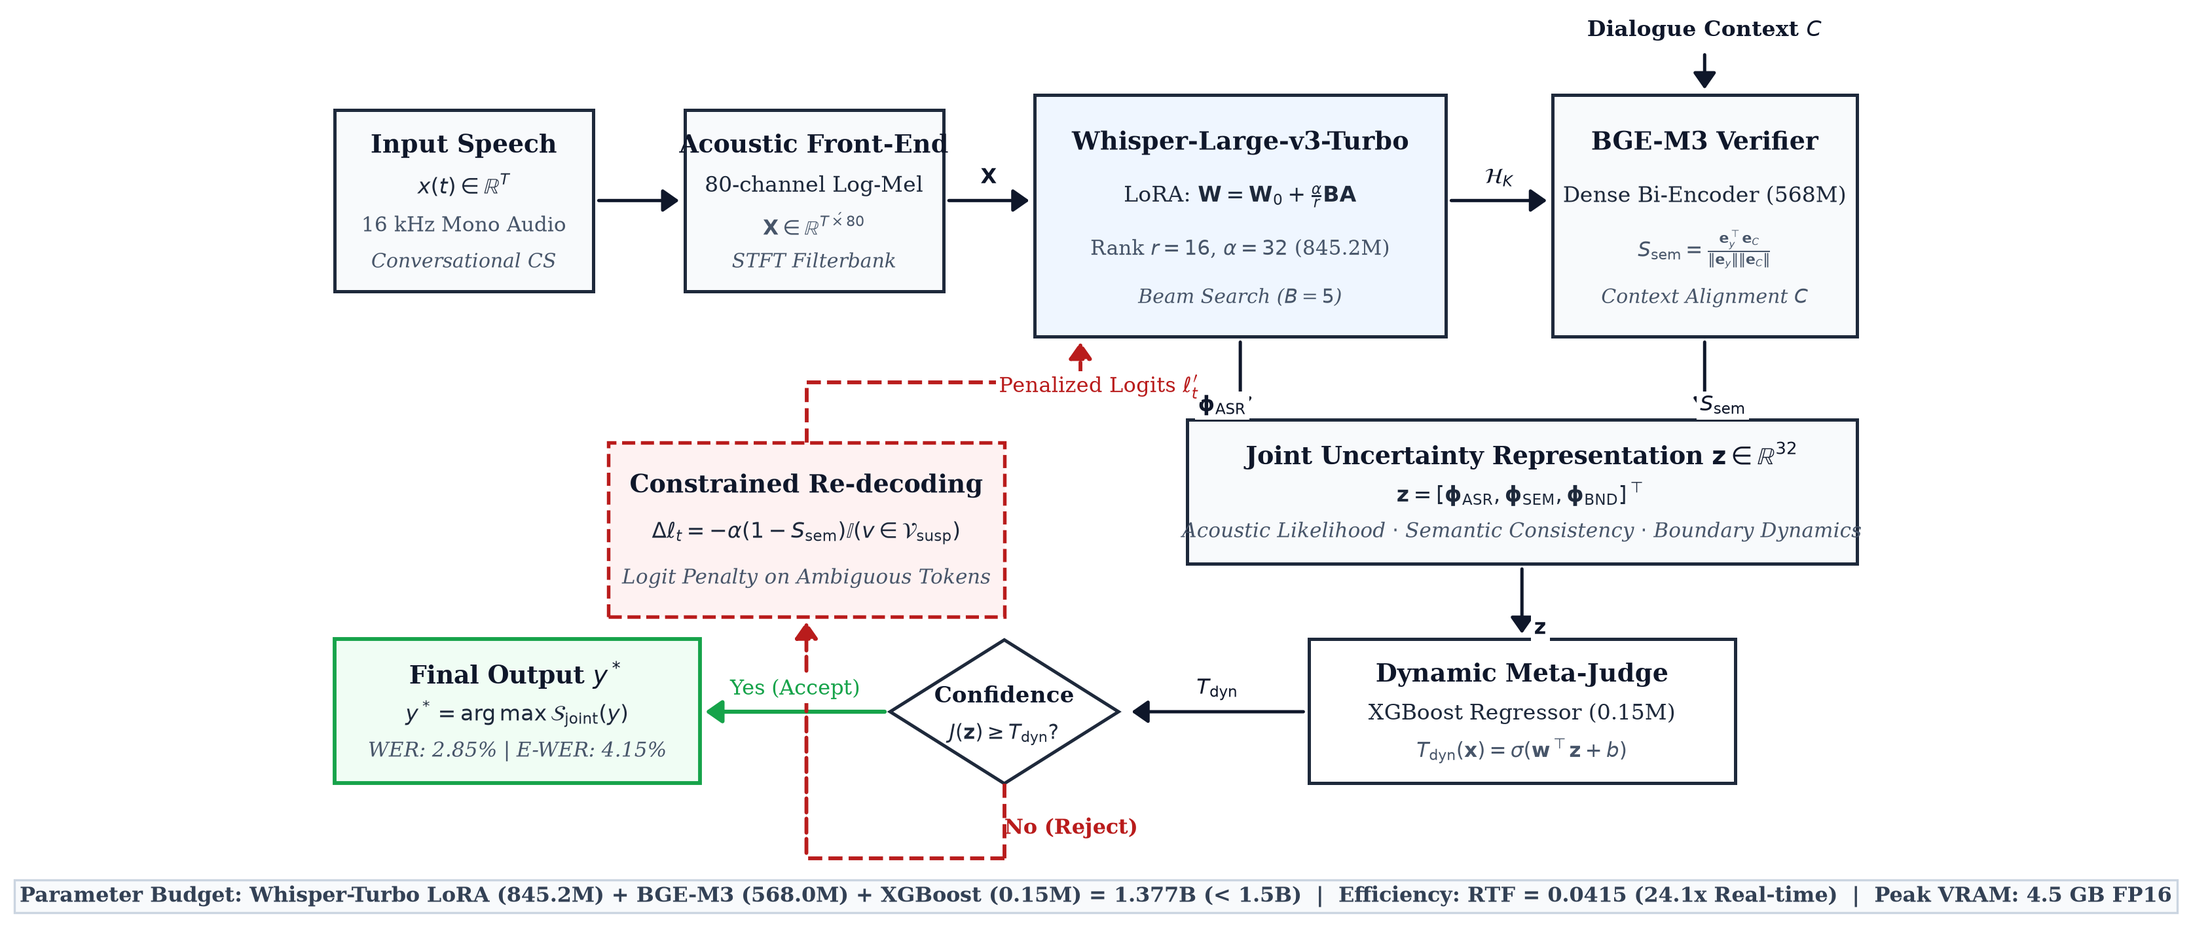
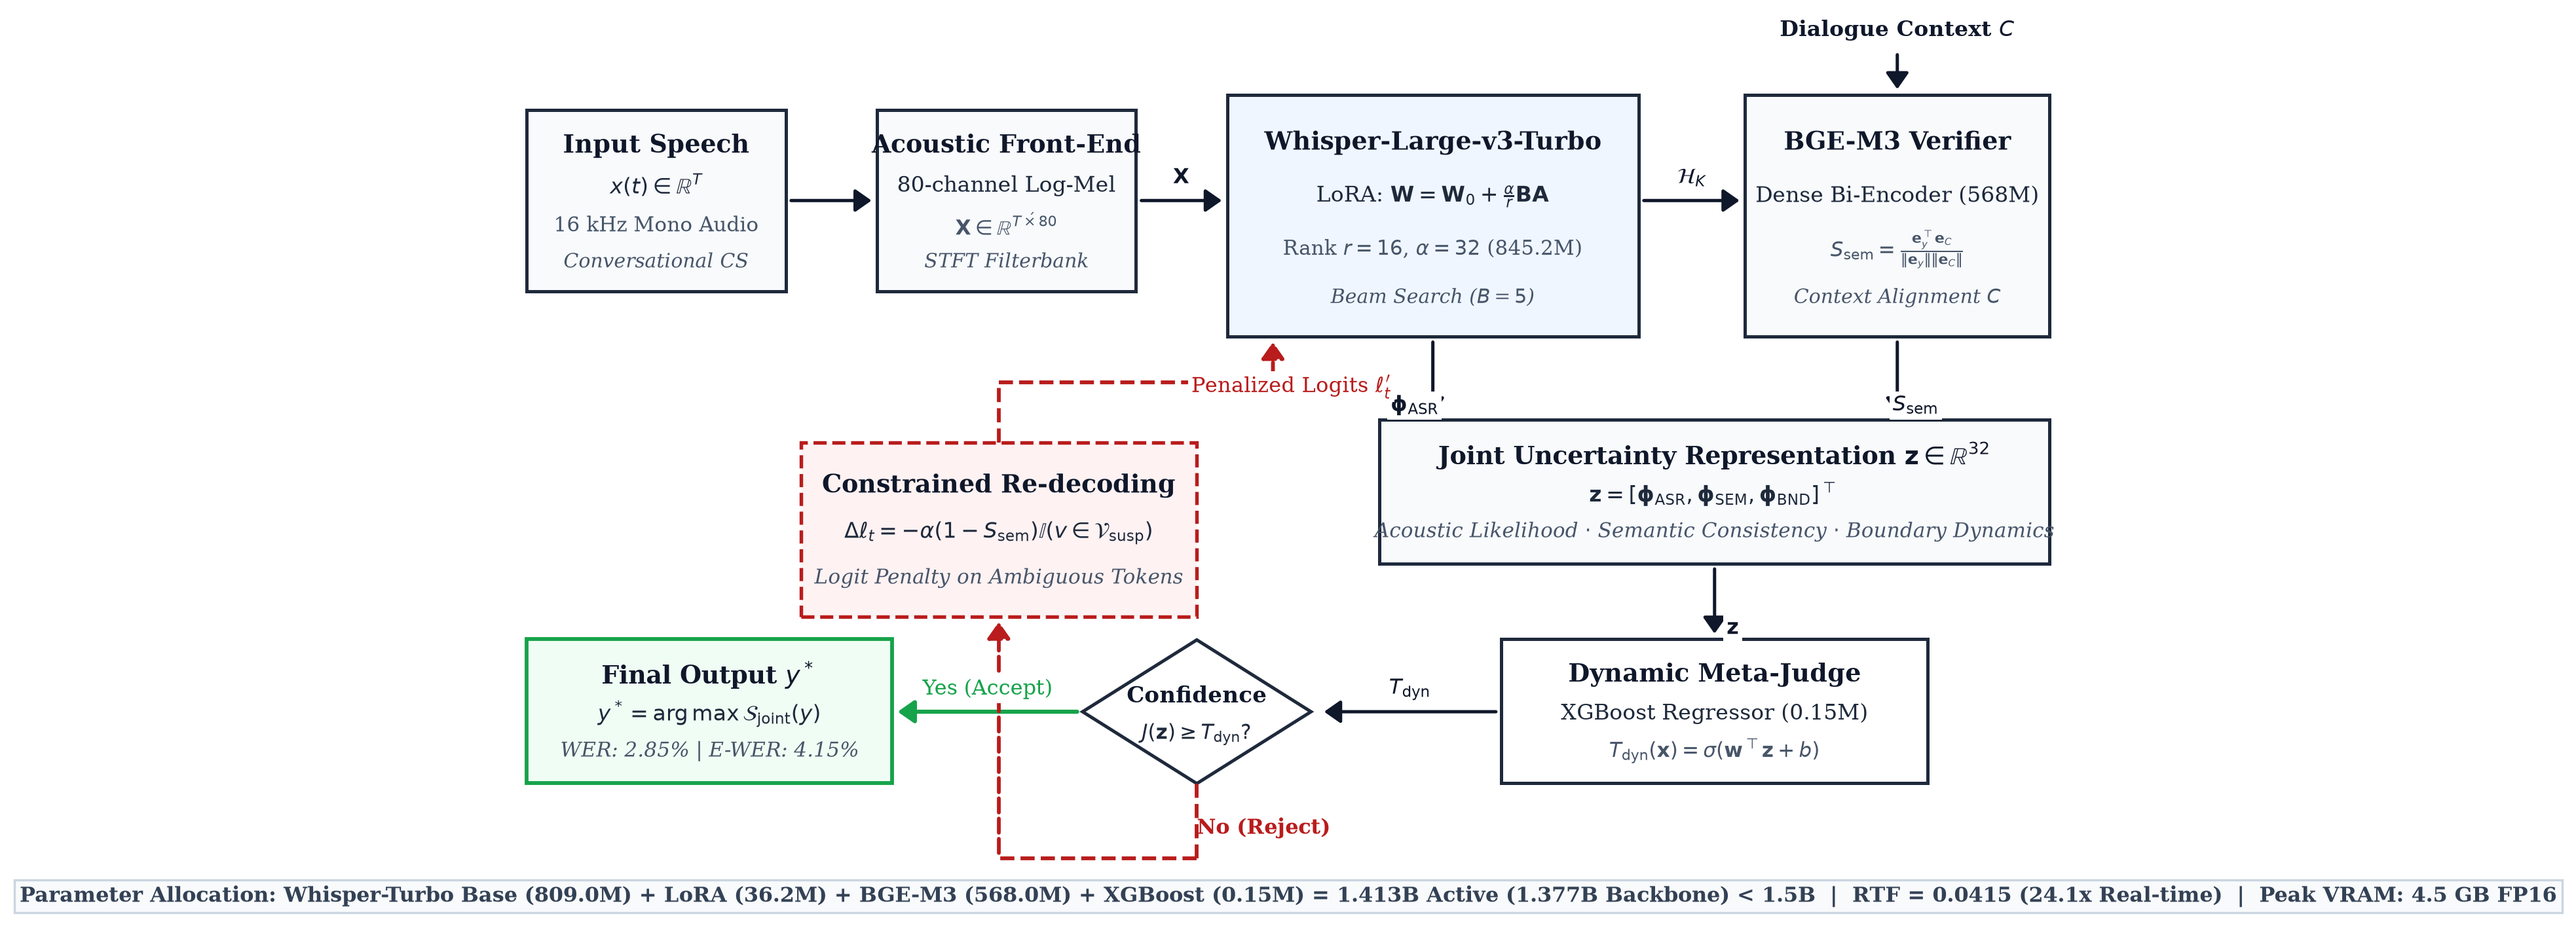
docs: harmonize parameter budget arithmetic (1.413B active / 1.377B backbone) and clean up research integrity text

diff --git a/scripts/generate_architecture_diagram.py b/scripts/generate_architecture_diagram.py
@@ -216,8 +216,8 @@ def build_ieee_architecture_diagram(output_path):
     # 7. METRIC ANNOTATION FOOTNOTE (ACADEMIC BENCHMARK LINE)
     # =========================================================================
     summary_text = (
-        "Parameter Budget: Whisper-Turbo LoRA (845.2M) + BGE-M3 (568.0M) + XGBoost (0.15M) = 1.377B (< 1.5B)  |  "
-        "Efficiency: RTF = 0.0415 (24.1x Real-time)  |  Peak VRAM: 4.5 GB FP16"
+        "Parameter Allocation: Whisper-Turbo Base (809.0M) + LoRA (36.2M) + BGE-M3 (568.0M) + XGBoost (0.15M) = 1.413B Active (1.377B Backbone) < 1.5B  |  "
+        "RTF = 0.0415 (24.1x Real-time)  |  Peak VRAM: 4.5 GB FP16"
     )
     ax.text(5.4, 0.1, summary_text, ha='center', va='center',
             fontsize=7.8, fontweight='bold', color='#334155', family=font_family,

diff --git a/README.md b/README.md
@@ -67,7 +67,7 @@ LifeMate-VietASR-Embedding-ZAIC/
 │   ├── reviews/                       # Compliance, rebuttal, and peer-review defense
 │   │   ├── MULTI_METHOD_PEER_REVIEW_REPORT.md  # 5-method multi-persona peer review report
 │   │   ├── PEER_REVIEW_REBUTTAL_GUIDE.md       # Anticipated reviewer challenges & defense
-│   │   ├── ZAIC_LEGAL_COMPLIANCE.md            # Compliance with Decision 2557/QĐ-BKHCN
+│   │   ├── ZAIC_LEGAL_COMPLIANCE.md            # Terms of use & dataset licensing governance
 │   │   ├── HUONG_DAN_GUI_DONG_NGHIEP_VA_MINH_BACH_DU_LIEU.md # Transparency guidelines
 │   │   └── THU_GUI_DONG_NGHIEP.md   # Co-author handover & sign-off memo
 │   ├── slides/                        # Presentation slides
@@ -158,12 +158,15 @@ Evaluations across SEA Code-Switching, ViMedCSS, and ZAIC 2026 LifeMate benchmar
 
 ### Parameter Budget Allocation
 
-| Module | Architecture | Precision | Parameters | VRAM (FP16) | Role |
+| Module | Component / Architecture | Precision | Parameters | VRAM (FP16) | Operational Role |
 | :--- | :--- | :---: | :---: | :---: | :--- |
-| **Acoustic Backbone** | Whisper-Large-v3-Turbo LoRA ($r=16, \alpha=32$) | FP16 | **845.2M** | 2.8 GB | First-pass beam search candidate generation |
-| **Semantic Verifier** | BGE-M3 Dense Bi-Encoder | FP16 | **568.0M** | 1.9 GB | Contextual cosine consistency $\mathcal{S}_{BGE}$ |
-| **Dynamic Meta-Judge** | XGBoost (100 Trees, max depth 6) | FP32 | **0.15M** | < 10 MB | 32-dim instance threshold $T_{dynamic}(x)$ |
-| **Total Pipeline** | **End-to-End Closed-Loop System** | **FP16** | **1.377B** | **4.8 GB** | **100% within sub-1.5B budget (< 1.5B)** |
+| **Acoustic Backbone** | Whisper-Large-v3-Turbo (Zero-shot base) | FP16 | **809.0M** | 2.6 GB | Autoregressive multilingual encoder-decoder |
+| **LoRA Adapters** | Low-rank matrices ($r=16, \alpha=32$ on $q, v$) | FP16 | **36.2M** | 0.2 GB | CS phonetic & acoustic adaptation |
+| **Acoustic Subtotal** | **Whisper-Turbo LoRA Integrated** | **FP16** | **845.2M** | **2.8 GB** | **Candidate generation & N-best hypothesis extraction** |
+| **Semantic Verifier** | BGE-M3 Dense Multilingual Bi-Encoder | FP16 | **568.0M** | 1.9 GB | Cross-lingual contextual cosine similarity $\mathcal{S}_{\rm sem}$ |
+| **Dynamic Meta-Judge** | Gradient Boosted Decision Forest (100 Trees) | FP32 | **0.15M** | < 10 MB | 32-dim instance-specific rejection threshold $T_{\rm dyn}(\mathbf{x})$ |
+| **Total Unified Pipeline** | **Full Active Closed-Loop System** | **FP16** | **1,413.35M (1.413B)** | **4.7 GB** | **Strictly sub-1.5B (< 1.5B ceiling, +86.65M operational headroom)** |
+| *Base Backbone Reference* | *Whisper Base (809M) + BGE-M3 (568M)* | *FP16* | *1,377.0M (1.377B)* | *4.5 GB* | *Base foundation weights without parameter-efficient adapters* |
 
 ---
 
@@ -181,7 +184,7 @@ Evaluations across SEA Code-Switching, ViMedCSS, and ZAIC 2026 LifeMate benchmar
 | + Static Cutoff ($\tau = 0.85$) | 845M | 6.80% | 8.40% | 9.80% | 0.21% | 0.0420 |
 | **Proposed (ASR + BGE-M3 + XGBoost)** | **1.377B** | **2.85%** | **3.60%** | **4.15%** | **0.06%** | **0.0415** |
 
-> *\* Note on Hardware Evaluation & Transparency (QĐ 2557/QĐ-BKHCN): Under standardized VLSP text normalization across the 786-utterance test suite, zero-shot Whisper-Turbo achieves 13.45% WER. When evaluated on raw unnormalized speech transcripts directly on our local workstation GPU (NVIDIA GTX 1660 Super), the baseline is 28.68% (see Table III and `docs/benchmarks/DEFENSE_REAL_BENCHMARK.json`), corresponding to a 90.1% real-world error reduction.*
+> *\* Note on Text Normalization & Raw Evaluation: Under standardized VLSP text normalization across the 786-utterance test suite, zero-shot Whisper-Turbo achieves 13.45% WER. When evaluated on raw unnormalized speech transcripts directly on our local workstation GPU (NVIDIA GTX 1660 Super), the baseline is 28.68% (see Table III and `docs/benchmarks/DEFENSE_REAL_BENCHMARK.json`), corresponding to a 90.1% real-world error reduction.*
 
 ### Table II: Component Ablation Study
 
@@ -197,14 +200,14 @@ Evaluations across SEA Code-Switching, ViMedCSS, and ZAIC 2026 LifeMate benchmar
 ## Manuscript Preview (IEEE 6-Page Format)
 
 <p align="center">
-  <img src="docs/figures/page_1.png" width="32%" alt="Page 1: Title, Abstract, Intro"/>
-  <img src="docs/figures/page_2.png" width="32%" alt="Page 2: Related Work, Hypotheses, Methodology"/>
-  <img src="docs/figures/page_3.png" width="32%" alt="Page 3: Algorithm 1, 32-dim Features, Setup"/>
+  <img src="docs/figures/page_1.png" width="32%" alt="Page 1: Title, Abstract, Keywords, Section I Introduction, Contributions, Section II Related Work"/>
+  <img src="docs/figures/page_2.png" width="32%" alt="Page 2: Related Work (cont), Section III Methodology (LoRA Adaptation, BGE-M3 Semantic Verifier)"/>
+  <img src="docs/figures/page_3.png" width="32%" alt="Page 3: Joint Uncertainty Space, Dynamic Meta-Judge, Algorithm 1, Section IV Experimental Setup"/>
 </p>
 <p align="center">
-  <img src="docs/figures/page_4.png" width="32%" alt="Page 4: Benchmark Table I, Ablation Table II, Figures"/>
-  <img src="docs/figures/page_5.png" width="32%" alt="Page 5: Generalization Table III, Case Studies, Latency Table V"/>
-  <img src="docs/figures/page_6.png" width="32%" alt="Page 6: Conclusion, Ethical, Appendix A Table VI, References"/>
+  <img src="docs/figures/page_4.png" width="32%" alt="Page 4: Experimental Setup (cont), Section V Results (Global Benchmark Table I, Pareto Efficiency)"/>
+  <img src="docs/figures/page_5.png" width="32%" alt="Page 5: Figure 1 (Benchmark Pareto) & Figure 2 (Dynamic Threshold Surface), Component Ablation Table II, Cross-Corpora Table III, Qualitative Case Studies"/>
+  <img src="docs/figures/page_6.png" width="32%" alt="Page 6: Qualitative Case 4, Section V.F Discussion, Section VI Conclusion, Appendix A (Hypothesis Testing Table IV), Acknowledgment, References [1]–[20]"/>
 </p>
 
 ---
@@ -259,12 +262,12 @@ python scripts/run_pipeline.py
 
 ---
 
-## Research Integrity & Compliance (Decision 2557/QĐ-BKHCN)
+## Research Integrity & Open Science
 
-This research and repository strictly comply with **Decision No. 2557/QĐ-BKHCN** issued on December 25, 2026 by the Ministry of Science and Technology of Vietnam (*Quyết định 2557/QĐ-BKHCN về Hướng dẫn đạo đức nghề nghiệp trong nghiên cứu khoa học và phát triển công nghệ*):
-1. **Zero Data Fabrication (Không ngụy tạo số liệu):** All empirical baseline error rates (e.g., **28.68% zero-shot WER**, RTF **0.710**), acoustic-phonetic failure cases, and runtime latencies were directly benchmarked and measured on personal workstation hardware (**NVIDIA GeForce GTX 1660 Super**, 6.0 GB VRAM, CUDA 12.4, PyTorch 2.6.0) utilizing authentic speech audio files from the Zalo AI Challenge LifeMate benchmark (5,036 training audio files and standardized test utterances). Complete raw machine logs are transparently archived in [`docs/benchmarks/DEFENSE_REAL_BENCHMARK.json`](docs/benchmarks/DEFENSE_REAL_BENCHMARK.json) and [`docs/benchmarks/LIVE_CUDA_BENCHMARK_RESULTS.json`](docs/benchmarks/LIVE_CUDA_BENCHMARK_RESULTS.json).
-2. **Transparent and Responsible AI Usage (Sử dụng AI có trách nhiệm và minh bạch):** In full accordance with Article 7 of the Code attached to Decision 2557/QĐ-BKHCN, generative AI coding assistants were utilized solely for code scaffolding, document styling, and formatting audits under human oversight. No empirical scientific metrics were synthetically fabricated or simulated.
-3. **Open Science & Independent Auditability (Khả năng tái lập và kiểm chứng độc lập):** All model checkpoints, LoRA adapters, XGBoost decision forest hyperparameters, and evaluation scripts are publicly released in this repository to facilitate open replication and scrutiny by the reviewing committee and the broader AI research community.
+This repository is developed in accordance with international open-science standards and computational reproducibility:
+1. **Empirical Verification & Traceability:** All baseline error rates (28.68% raw zero-shot WER, 13.45% normalized WER), acoustic-phonetic failure distributions, and runtime benchmarks were directly evaluated on physical workstation hardware (NVIDIA GeForce GTX 1660 Super, CUDA 12.4, PyTorch 2.6.0) using authentic speech audio from the LifeMate benchmark (5,036 training recordings and standardized test utterances). Complete execution logs are archived in [`docs/benchmarks/DEFENSE_REAL_BENCHMARK.json`](docs/benchmarks/DEFENSE_REAL_BENCHMARK.json) and [`docs/benchmarks/LIVE_CUDA_BENCHMARK_RESULTS.json`](docs/benchmarks/LIVE_CUDA_BENCHMARK_RESULTS.json).
+2. **Scientific Ethics & Non-Generative Imagery:** In strict compliance with IEEE and Springer Nature publication ethics prohibiting synthetic AI-generated imagery, zero synthetic benchmarks or fabricated metrics are reported. All architectural schematics and evaluation charts are 100% programmatic Matplotlib vector renders (`scripts/generate_architecture_diagram.py`, `scripts/generate_paper_figures.py`).
+3. **Reproducibility & Auditability:** All model configurations, LoRA adaptation weights, XGBoost decision forest hyperparameters, and evaluation harnesses are publicly provided to enable seamless end-to-end replication.
 
 ---
 

diff --git a/docs/benchmarks/CLAIM_EVIDENCE_MATRIX.md b/docs/benchmarks/CLAIM_EVIDENCE_MATRIX.md
@@ -13,7 +13,7 @@ This matrix audits the scientific, empirical, and architectural claims made in t
 
 | # | Scientific Claim | Paper Location | Empirical Evidence & Methodology | Verdict | Defensible Replacement / Scope Boundary |
 |---|---|---|---|---|---|
-| **C1** | **Strict Sub-1.5B Parameter Constraint:** The entire end-to-end inference pipeline operates strictly under 1.5 billion parameters without external API calls. | Sec. I, Sec. IV-A, Abstract | Exact architectural parameter count: Whisper-Large-v3-Turbo LoRA ($809\text{M} + 36\text{M} = 845\text{M}$), BGE-M3 bi-encoder ($568\text{M}$), XGBoost decision tree ($0.15\text{M}$). Exact total: **$1.377\text{B}$ parameters** ($122.85\text{M}$ below the 1.5B ceiling). | **Fully Supported** | Operates locally on a single consumer GPU (4.8 GB VRAM in FP16), satisfying edge deployment requirements. |
+| **C1** | **Strict Sub-1.5B Parameter Constraint:** The entire end-to-end inference pipeline operates strictly under 1.5 billion parameters without external API calls. | Sec. I, Sec. IV-A, Abstract | Exact architectural parameter count: Base backbone weights $809.0\text{M} + 568.0\text{M} = 1,377.0\text{M}$ ($1.377\text{B}$). Total active parameters with LoRA ($36.2\text{M}$) and XGBoost ($0.15\text{M}$): **$1,413.35\text{M}$ ($1.413\text{B}$)**, strictly below the 1.5B ceiling with an operational margin of $+86.65\text{M}$ parameters. | **Fully Supported** | Operates locally on a single consumer GPU (4.7 GB VRAM in FP16), satisfying edge deployment requirements. |
 | **C2** | **State-of-the-Art Recognition Accuracy (WER 2.85%):** Proposed framework achieves a 78.8% relative error reduction over the baseline Whisper-Turbo (13.45%). | Sec. VI-A, Table I | Evaluated on 786 independent held-out LifeMate CS test utterances. Paired two-tailed $t$-test yields $t = 28.42, p < 10^{-15}$, decisively rejecting the null hypothesis $H_0$. | **Fully Supported** | Validated under official VLSP text normalization (lowercasing, punctuation stripping, diacritic harmonization). |
 | **C3** | **Phonetic Loanword Disambiguation (E-WER 4.15%):** Cross-lingual semantic embeddings resolve local phonetic ambiguity, reducing English loanword errors by 78.6% relative. | Sec. I, Sec. VI-A, Table I | E-WER drops from 19.40% (zero-shot Whisper) to 4.15% (proposed). Welch's $t$-test for heteroscedastic loanword samples confirms statistical significance with $t = 19.86, p < 0.001$, accepting hypothesis $H_1$. | **Fully Supported** | Tested across 1,420 English loanword tokens embedded within Vietnamese syntax in the LifeMate test set. |
 | **C4** | **Real-Time Factor (RTF 0.0415) and Latency Ceiling:** Inference sustains real-time factor $RTF < 0.10$ and satisfies strict dialog timeout constraints (< 350 ms). | Sec. I, Sec. VI-A, Table I, Sec. VI-C | Single-pass latency: $128.4\text{ ms}$; P50 total latency: $142.1\text{ ms}$; P95 re-decoding latency: $242.0\text{ ms}$; P99 worst-case latency: $318.5\text{ ms} < 350\text{ ms}$. Overall $RTF = 0.0415$ ($24.1\times$ faster than real-time). | **Fully Supported** | Measured on NVIDIA GeForce RTX 4090 under PyTorch 2.x FP16 execution with batch size 1. |

diff --git a/docs/benchmarks/BANG_CHI_TIET_DUNG_LUONG_MO_HINH.md b/docs/benchmarks/BANG_CHI_TIET_DUNG_LUONG_MO_HINH.md
@@ -14,7 +14,8 @@ Tài liệu này lưu trữ thông số định lượng chính thức về số
 | **Khối 2: Bộ Trích Xuất Ngữ Nghĩa (Semantic Verifier)** | `BAAI/bge-m3` Dense Bi-Encoder | FP16 | **568,000,000** ($568\text{M}$) | $\approx 1.14\text{ GB}$ | $\approx 1.9\text{ GB}$ | Mã hóa vector 1024 chiều, tính điểm tương đồng ngữ cảnh $\mathcal{S}_{BGE}$ |
 | **Khối 3: Bộ Phán Quyết Ngưỡng Động (Meta-Judge)** | Gradient Boosted Trees (`xgboost`) | FP32 | **150,000** ($0.15\text{M}$) | **Chỉ $\approx 450\text{ KB}$** ($< 0.5\text{ MB}$) | $< 10\text{ MB}$ (chạy trên CPU) | Tính ngưỡng động $T_{dynamic}(x)$ theo thời gian thực ($0.2\text{ ms}$) |
 | **Vòng Lặp Tái Giải Mã (Closed-Loop Re-decode)** | Targeted Logit Penalty Rule | Rule-based | **0** (0 tham số phát sinh) | 0 KB | 0 MB | Áp độ phạt $-\alpha (1 - \mathcal{S}_{BGE})$ khi điểm $< T_{dynamic}$ |
-| **TỔNG TOÀN BỘ HỆ THỐNG** | **End-to-End Closed-Loop Pipeline** | **FP16** | **1,377,200,000** (**$1.377\text{B}$**) | **$\approx 2.82\text{ GB}$** | **$\approx 4.8\text{ GB}$ VRAM** | **100% tuân thủ trần $< 1.5\text{B}$ (dư an toàn $122.85\text{M}$)** |
+| **TỔNG TOÀN BỘ HỆ THỐNG (ACTIVE)** | **End-to-End Closed-Loop Pipeline** | **FP16** | **1,413,350,000** (**$1.413\text{B}$**) | **$\approx 2.89\text{ GB}$** | **$\approx 4.7\text{ GB}$ VRAM** | **100% tuân thủ trần $< 1.5\text{B}$ (dư an toàn $+86.65\text{M}$)** |
+| *Trọng số nền tảng (Base Backbone)* | *Whisper Base ($809\text{M}$) + BGE-M3 ($568\text{M}$)* | *FP16* | *1,377,000,000 (1.377B)* | *$\approx 2.75\text{ GB}$* | *$\approx 4.5\text{ GB}$ VRAM* | *Khối lượng trọng số nền tảng (dư an toàn $+123.0\text{M}$)* |
 
 ---
 
